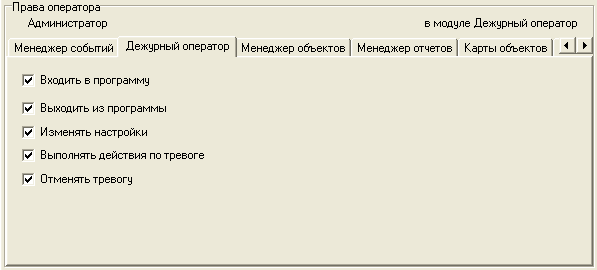
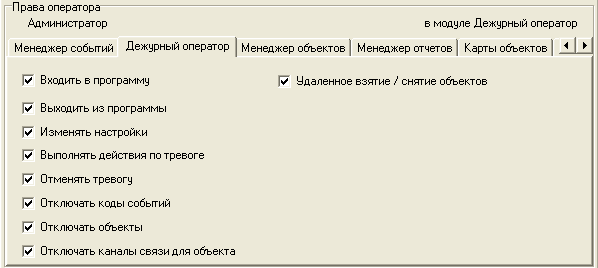
права на отключение событий, объектов и каналов связи в модуле "Менеджер персонала"

diff --git a/russian/07-personnel-manager.md b/russian/07-personnel-manager.md
@@ -50,6 +50,14 @@
 
 * «Отменять тревогу» — разрешение на отмену тревоги. Оператор «Центра охраны», обладающий данным правом, может вызвать окно «Отработка тревоги» и отменить тревогу. Для выполнения действий по тревоге оператор также должен быть наделен правом «Выполнять действия по тревоге».
 
+* «Отключать коды событий» — разрешение на отключение событий. Оператор «Центра охраны», обладающий данным правом, может вызвать окно «Отключить событие» и выполнить отключение события, указав время, в течение которого событие должно быть отключено, и причину отключения.
+
+* «Отключать объекты» — разрешение на отключение объектов. Оператор «Центра охраны», обладающий данным правом, может вызвать окно «Отключение объекта» и выполнить отключение объекта, указав время, в течение которого объект должен быть отключен, и причину отключения.
+
+* «Отключать каналы связи для объекта» — разрешение на отключение каналов связи для объекта. Оператор «Центра охраны», обладающий данным правом, может вызвать окно «Отключение каналов связи объекта» и выполнить отключение одного или нескольких каналов связи, указав время, в течение которого каналы связи должны быть отключены, и причину отключения.
+
+* «Удаленное взятие / снятие объектов» — разрешение на удаленное взятие объектов под охрану, а также снятие их с охраны. Оператор «Центра охраны», обладающий данным правом, может выполнить постановку объекта на охрану или снятие с охраны в том случае, если на объекте установлено оборудование с типом передатчика «ТР-100 GSM III». 
+
 ### Права оператора в модуле «Менеджер объектов»
 
 ![Права оператора в модуле «Менеджер объектов»][id-07-05]
@@ -79,6 +87,8 @@
 * «Разрешать инженерам доступ к объектам» - разрешение на предоставление инженерам удаленного доступа к объектам.
 
 * «Изменять информацию о видеороутерах» - разрешение на изменение информации о видеороутерах. Данное разрешение позволяет добавлять и удалять видеороутеры, к которым подключены камеры, установленные на объекте.
+
+* «Редактировать шаблоны расписания охраны» - разрешение на редактирование шаблонов расписания охраны. С помощью данного разрешения можно создавать, редактировать и удалять шаблоны на основе выбранного расписания охраны.
 
 ### Права оператора в модуле «Менеджер отчетов»
 
@@ -147,6 +157,8 @@
 * «Редактировать компьютеры» — разрешение на изменение списка компьютеров, на которых могут запускаться модули «Центра охраны».
 
 * «Редактировать инженеров» - разрешение на изменение списка инженеров для последующего предоставления им удаленного доступа к объектам.
+
+* «Редактировать администраторов» - разрешение на изменение списка администраторов, которым предоставляется доступ к «Личному кабинету». 
  
 ## Группы быстрого реагирования
 

diff --git a/russian/09-duty-operator.md b/russian/09-duty-operator.md
@@ -77,7 +77,7 @@
 
 ![Окно «Состояние объектов», контекстное меню, пункт «Включить объект»][id-09-02-08]
 
-Включить объект «Центра охраны» может оператор, наделенный правом «Отключать объекты». При выборе пункта «Включить объект» появляется окно «Включение объекта», в котором приведена информация о номере и названии объекта, а также указано время самостоятельного включения объекта. Для включения объекта необходимо кликнуть по кнопке «Включить объект» данного окна.
+При выборе пункта «Включить объект» появляется окно «Включение объекта», в котором приведена информация о номере и названии объекта, а также указано время самостоятельного включения объекта. Для включения объекта необходимо кликнуть по кнопке «Включить объект» данного окна.
 
 ![Окно «Состояние объектов», окно «Включение объекта»][id-09-02-09]
 
@@ -91,7 +91,7 @@
 
 ![Окно «Состояние объектов», контекстное меню, пункт «Включить каналы связи»][id-09-02-11]
 
-Включить каналы связи может оператор, наделенный правом «Отключать каналы связи для объекта». При выборе пункта «Включить каналы связи» появляется окно «Включение каналов связи объекта», в котором приведена информация о номере и названии объекта. В разделе «Отключаемые каналы связи» данного окна необходимо выбрать один или несколько каналов связи для включения и кликнуть по кнопке «Включить каналы».
+При выборе пункта «Включить каналы связи» появляется окно «Включение каналов связи объекта», в котором приведена информация о номере и названии объекта. В разделе «Отключаемые каналы связи» данного окна необходимо выбрать один или несколько каналов связи для включения и кликнуть по кнопке «Включить каналы».
 
 ![Окно «Состояние объектов», окно «Включение каналов связи объекта»][id-09-02-12]
 
